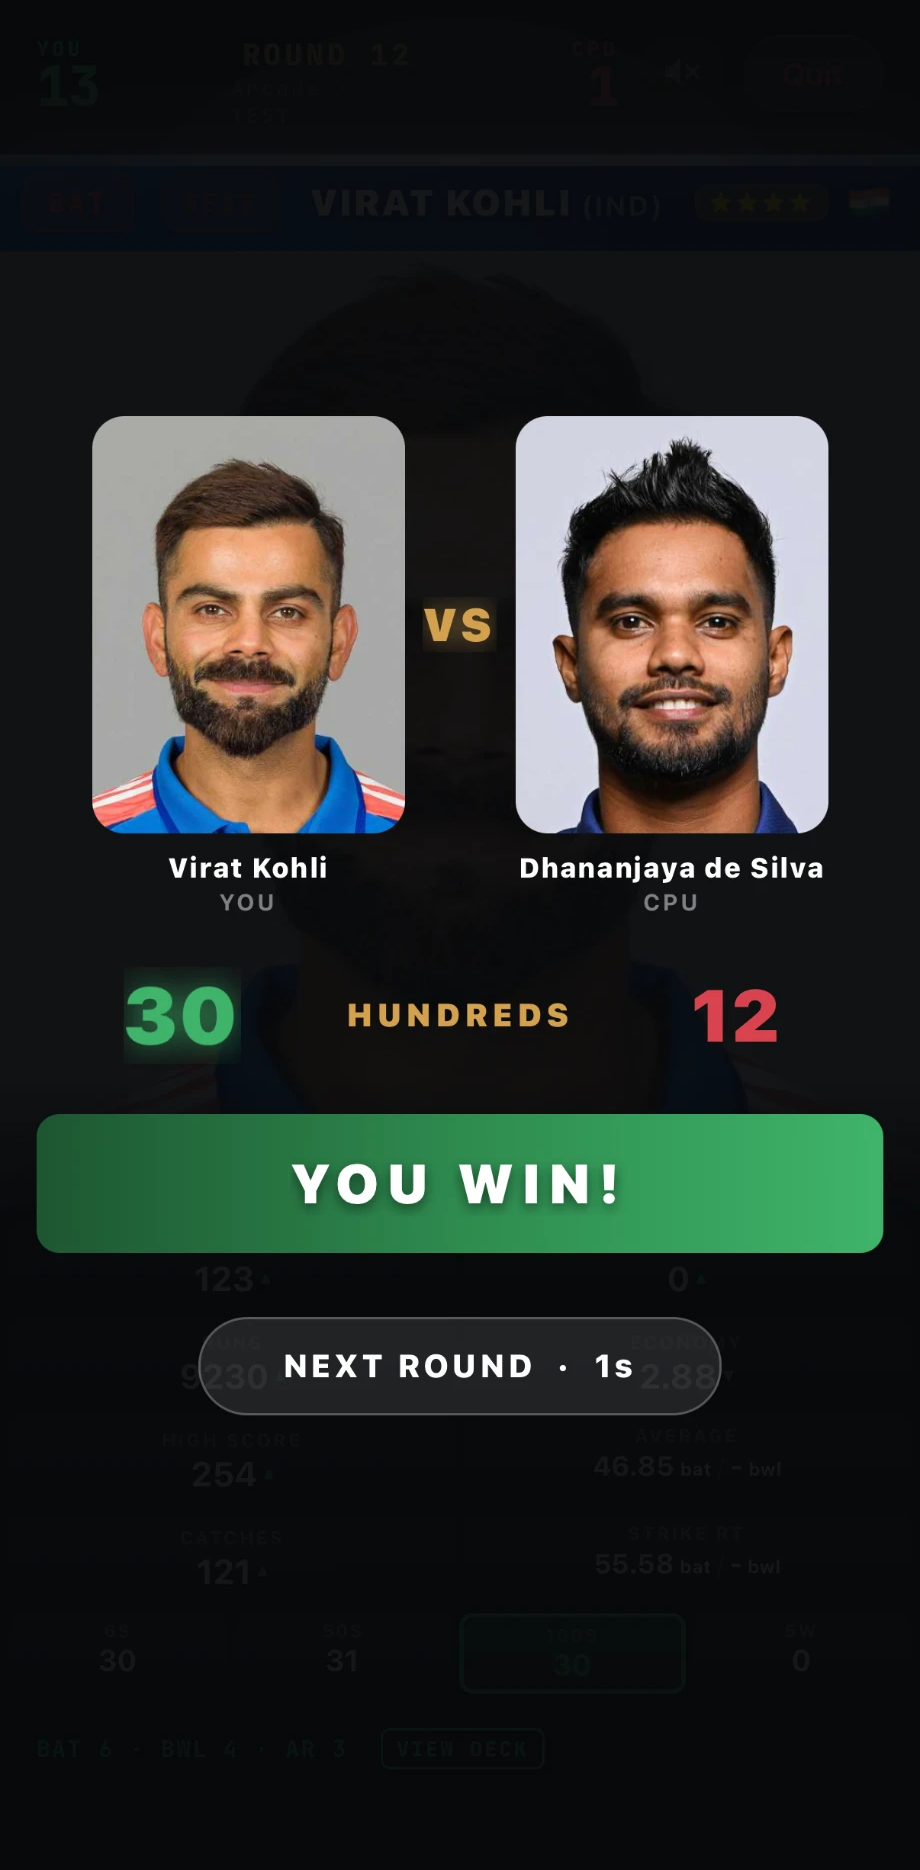
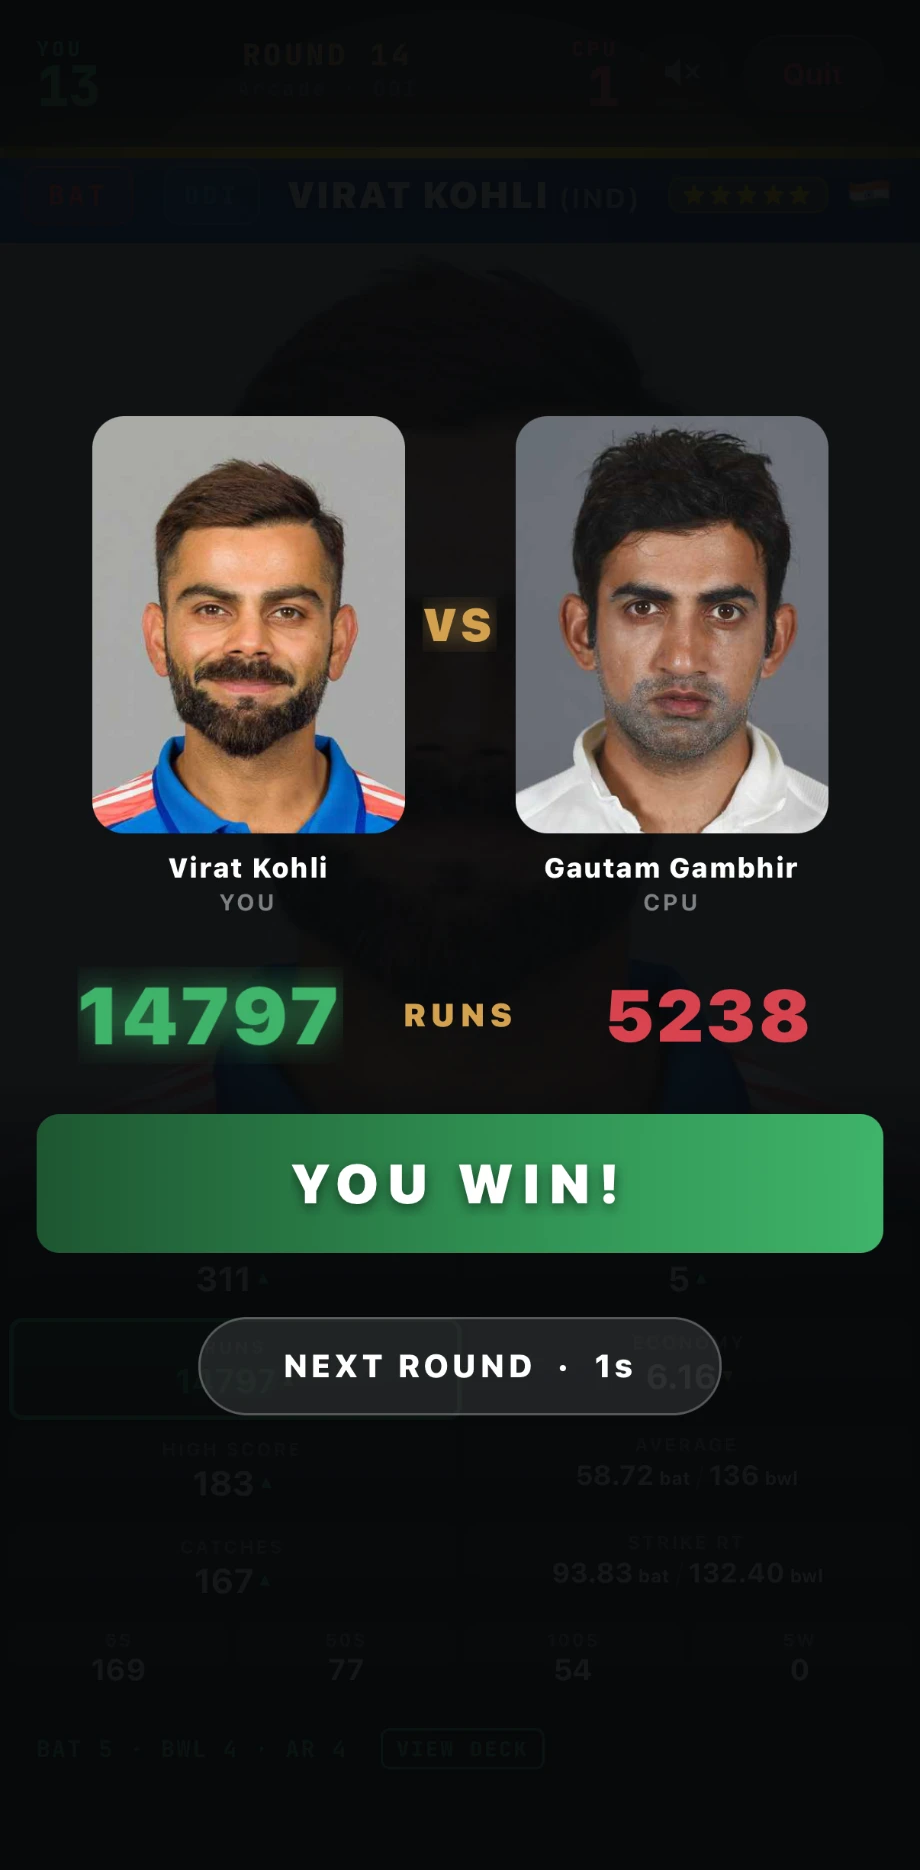
story deck: v3 forged-metal card-detail spec on design slide, new vs/rewards shots, install QRs on every slide

Changed region(s): [[0.5478, 0.2171, 0.913, 0.4963], [0.0609, 0.4963, 0.6087, 0.5893], [0.6391, 0.5273, 0.8826, 0.5583]]

diff --git a/docs/story/index.html b/docs/story/index.html
@@ -110,6 +110,10 @@
   .tl .s:first-child::before{left:50%}.tl .s:last-child::before{right:50%}
   .tl .s .t{font-weight:800;font-size:clamp(13px,1.2vw,18px)}.tl .s .d{font-size:clamp(11px,.95vw,13px);color:var(--muted)}
 
+  .qrs{position:fixed;top:16px;right:24px;z-index:30;display:flex;gap:12px;opacity:.95}
+  .qrs .q{display:flex;flex-direction:column;align-items:center;gap:3px}
+  .qrs img{width:58px;height:58px;background:#fff;border-radius:9px;padding:4px;display:block}
+  .qrs span{font-size:9px;font-weight:800;letter-spacing:.14em;color:var(--faint);text-transform:uppercase}
   .brand{position:fixed;top:20px;left:28px;display:flex;align-items:center;gap:10px;z-index:30;opacity:.85}
   .brand img{width:28px;height:28px;border-radius:8px}.brand span{font-size:11px;font-weight:800;letter-spacing:.18em;text-transform:uppercase;color:var(--faint)}
   .counter{position:fixed;bottom:16px;right:24px;z-index:30;font-size:13px;font-weight:700;color:var(--faint);font-family:var(--mono)}.counter b{color:var(--green)}
@@ -128,6 +132,7 @@
 <body>
 <div class="progress" id="progress"></div>
 <div class="brand"><img src="assets/icon.png" alt=""><span>Cricket Cards</span></div>
+<div class="qrs"><div class="q"><img src="assets/qr-appstore.png" alt=""><span> iOS</span></div><div class="q"><img src="assets/qr-play.png" alt=""><span>▶ Android</span></div></div>
 <div class="counter"><b id="cur">01</b> / <span id="tot">16</span></div>
 <div class="hint" id="hint"><span class="key">→</span> advance · <span class="key">N</span> notes · <span class="key">F</span> fullscreen</div>
 
@@ -255,17 +260,17 @@
   </section>
 
   <!-- 9 · CLAUDE DESIGN → FRONT END -->
-  <section class="slide" data-notes="Now the front end. Claude Code built the screens as a working grey skeleton — every flow functional, unstyled. Then Claude Design produced a real design system: the 'cricket cards' design language board on the left — type, colour, geometry, components, card anatomy — and four competing card directions on the right, explored as sketches before a pixel was styled. The badge opens the live spec.">
+  <section class="slide" data-notes="Now the front end. Claude Code built the screens as a working grey skeleton — every flow functional, unstyled. Then Claude Design produced a real design system: the v1 'cricket cards' design language board on the left — type, colour, geometry, components, card anatomy — and by v3, deep-dive element specs like this one: the star rating designed as a forged-metal trophy element with gold, silver and bronze tiers and motion tokens. The badge opens the live spec.">
     <div class="col stagger" style="gap:6px"><div class="kicker">Chapter 8 · the design</div><h2>Then the <span class="grad">front end.</span></h2></div>
-    <p class="lead mt-s" style="max-width:1100px">Claude Code built a working grey skeleton first. Then <b>Claude Design</b> wrote the design language — tokens, components, card anatomy — and auditioned four card directions before a pixel was styled.</p>
+    <p class="lead mt-s" style="max-width:1100px">Claude Code built a working grey skeleton first. Then <b>Claude Design</b> wrote the design language — and iterated it to deep-dive element specs, down to the star rating as a forged-metal trophy.</p>
     <div class="fill row mt-s" style="gap:2vw;align-items:center">
-      <div class="col center" style="flex:1.15;min-width:0">
+      <div class="col center" style="flex:1.25;min-width:0">
         <div class="panel glow" style="padding:8px;border-radius:14px;width:100%"><img src="assets/d-design-system.png" alt="" style="width:100%;border-radius:8px;display:block"></div>
-        <div class="cap">The design language<small>type · colour · geometry · components · card anatomy</small></div>
+        <div class="cap">v1 · The design language<small>type · colour · geometry · components · card anatomy</small></div>
       </div>
       <div class="col center" style="flex:1;min-width:0">
-        <div class="panel" style="padding:8px;border-radius:14px;width:100%"><img src="assets/d-design-cards.png" alt="" style="width:100%;border-radius:8px;display:block"></div>
-        <div class="cap">The card, auditioned<small>4 directions — grid · editorial · Panini sticker · broadcast</small></div>
+        <div class="panel" style="padding:8px;border-radius:14px;width:100%"><img src="assets/d-design-carddetail.png" alt="" style="width:100%;border-radius:8px;display:block"></div>
+        <div class="cap">v3 · Card detail, deep-dived<small>forged-metal stars — gold · silver · bronze + motion tokens</small></div>
       </div>
     </div>
     <div class="row wrap center mt-s" style="gap:12px;justify-content:center;align-items:center">
